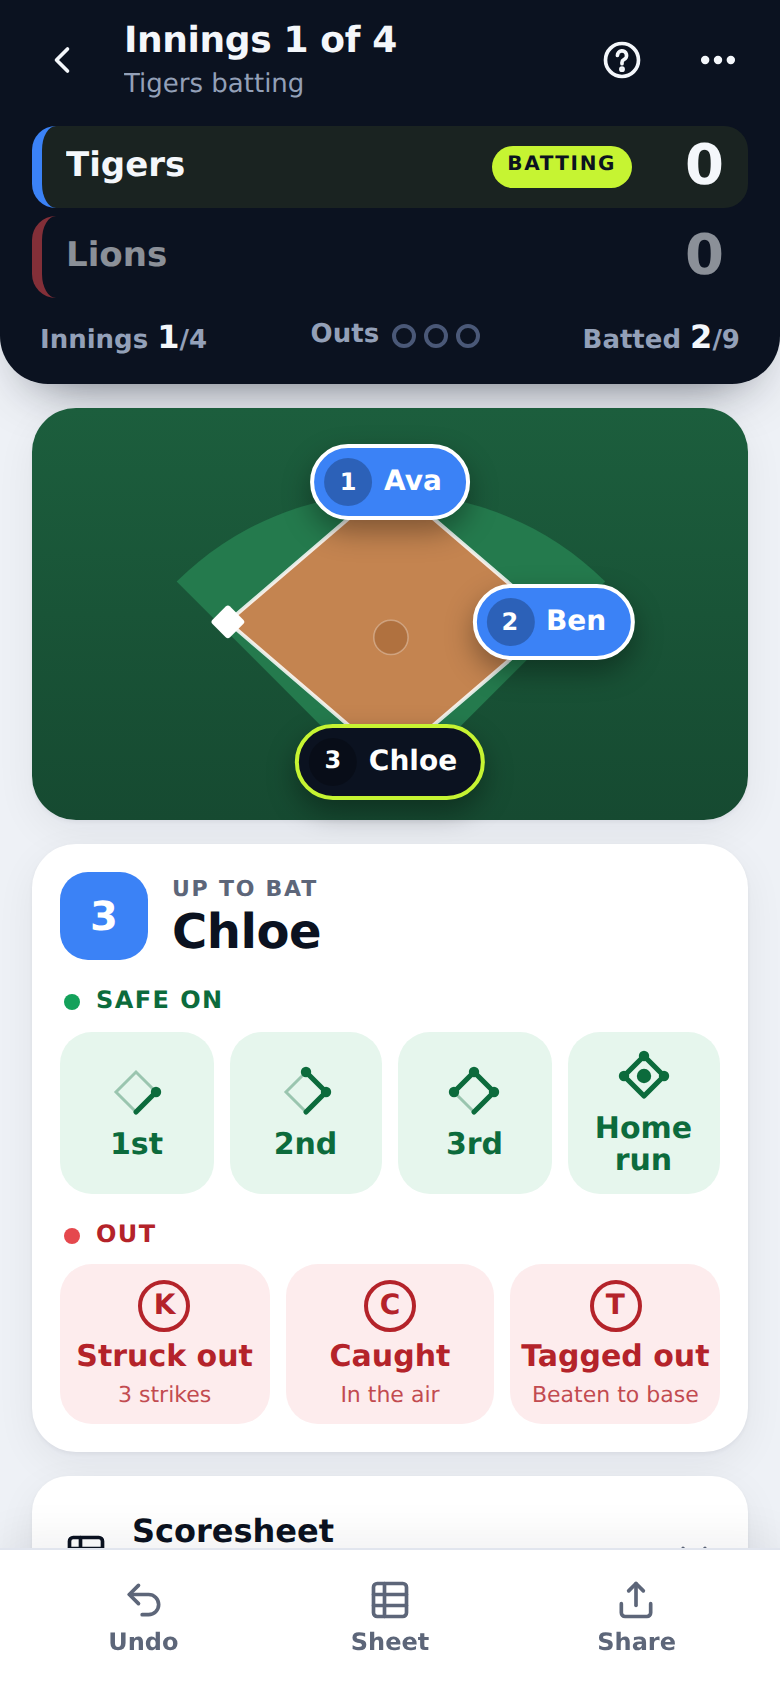
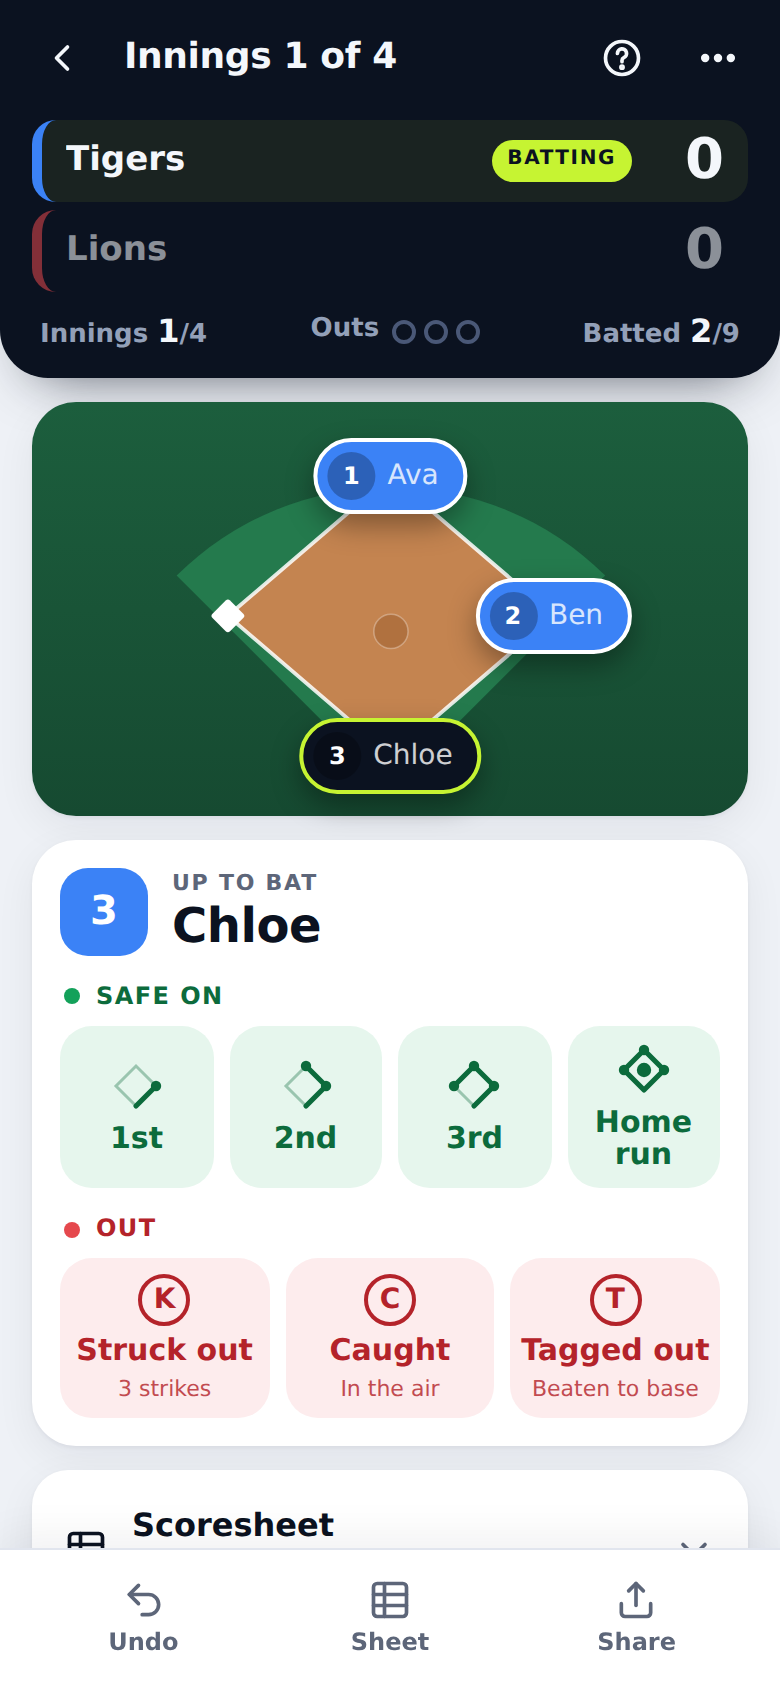
Fit scoring screen on small phones; draw next-batter line like the paper sheet
- Short screens (<=760px tall): teams side by side, smaller diamond,
  number-only runner chips, compact play buttons. All plays now fit
  without scrolling from 320x568 up
- Drop the repeated batting subtitle from the scoring top bar
- Next-batter marker: diagonal across the next batter's box joined to
  a horizontal line along that row in the next innings column

Claude-Session: https://claude.ai/code/session_01E99a7UZbF6EMRnxmZx3Hv6

diff --git a/css/style.css b/css/style.css
@@ -335,6 +335,7 @@ main.score { padding-top: 12px; }
   transition: transform .15s;
 }
 .chip.num-only { padding-right: 5px; }
+.chip em { font-style: normal; }
 .chip span { width: 24px; height: 24px; border-radius: 50%; display: grid; place-items: center; background: rgba(0, 0, 0, .25); font-size: 12px; }
 .chip.sel { transform: translate(-50%, -50%) scale(1.12); box-shadow: 0 0 0 4px var(--accent), 0 8px 18px rgba(0, 0, 0, .4); }
 .chip.pop { animation: pop .35s ease; }
@@ -500,4 +501,51 @@ main.score { padding-top: 12px; }
 @keyframes pulse { 50% { opacity: .55; } }
 @keyframes fade { from { opacity: 0; } }
 @keyframes slide { from { transform: translateY(100%); } }
+/* ---------- short screens (small phones) ---------- */
+@media (max-height: 760px) {
+  .top { padding-top: calc(env(safe-area-inset-top) + 4px); padding-bottom: 4px; }
+  .scoreboard { padding: 0 12px 8px; border-radius: 0 0 20px 20px; }
+  .sb-teams { grid-template-columns: 1fr 1fr; gap: 6px; }
+  .sb-team { padding: 4px 8px; gap: 6px; }
+  .sb-team:nth-child(2) { flex-direction: row-reverse; border-left: 0; border-right: 5px solid var(--team); text-align: right; }
+  .sb-team small { display: none; }
+  .sb-team.batting { box-shadow: inset 0 -3px 0 var(--accent); }
+  .sb-name { font-size: 14px; }
+  .sb-runs { font-size: 24px; min-width: 0; }
+  .sb-strip { margin-top: 5px; font-size: 12px; }
+  .sb-strip b { font-size: 14px; }
+  main.score { padding-top: 8px; }
+  .field-card { padding: 4px 6px; border-radius: 18px; margin-bottom: 8px; }
+  .field { max-width: calc(21vh * 1.2); }
+  /* Number-only runner chips so they never cover the bases. */
+  .chip, .chip.num-only { padding: 2px; }
+  .chip em { display: none; }
+  .chip span { width: 26px; height: 26px; font-size: 13px; background: none; }
+  .panel { padding: 10px; border-radius: 18px; margin-bottom: 8px; }
+  .batter-row { gap: 10px; margin-bottom: 6px; }
+  .num-badge { width: 34px; height: 34px; border-radius: 11px; font-size: 16px; }
+  .batter-row h2 { font-size: 19px; }
+  .batter-row small { font-size: 10px; }
+  .coach { padding: 4px 2px 4px 8px; font-size: 12px; }
+  .coach > svg { width: 15px; height: 15px; }
+  .coach .icon-btn { width: 26px; height: 26px; }
+  .group { margin: 7px 2px 4px; font-size: 11px; }
+  .plays { gap: 6px; }
+  .play { min-height: 50px; padding: 5px 2px; gap: 2px; border-radius: 13px; }
+  .play b { font-size: 14px; }
+  .play small { font-size: 10px; }
+  .play .glyph { width: 22px; height: 22px; font-size: 12px; }
+  .mini { width: 22px; height: 22px; }
+  .panel-head h2 { font-size: 19px; margin-bottom: 8px; }
+  .btn.big { min-height: 50px; }
+  .bottom-bar { padding-top: 3px; padding-bottom: calc(env(safe-area-inset-bottom) + 3px); }
+  .bottom-bar button { padding: 5px 4px; }
+}
+@media (max-height: 600px) {
+  .plays.hits .play b { font-size: 13px; }
+  .play small { display: none; }
+  .play { min-height: 44px; }
+  .field { max-width: calc(16vh * 1.2); }
+}
+
 @media (prefers-reduced-motion: reduce) { *, *::before, *::after { animation: none !important; transition: none !important; } }

diff --git a/js/app.js b/js/app.js
@@ -594,11 +594,11 @@ function diamond(bt, ph) {
     const p = state.runners[b];
     if (p == null) continue;
     chips.push(`<button class="chip ${game.teams[bt].players[p] ? '' : 'num-only'} ${selected === p ? 'sel' : ''} ${p === moved ? 'pop' : ''}" style="left:${POS[b][0]}%;top:${POS[b][1]}%;--team:${color}"
-      data-action="pick" data-p="${p}" ${runOk ? '' : 'disabled'}><span>${p + 1}</span>${esc(game.teams[bt].players[p] ? shortName(bt, p) : '')}</button>`);
+      data-action="pick" data-p="${p}" ${runOk ? '' : 'disabled'}><span>${p + 1}</span>${game.teams[bt].players[p] ? `<em>${esc(shortName(bt, p))}</em>` : ''}</button>`);
   }
   if (ph === 'bat') {
     const p = state.teams[bt].next;
-    chips.push(`<div class="chip batter ${game.teams[bt].players[p] ? '' : 'num-only'}" style="left:${POS[0][0]}%;top:${POS[0][1]}%;--team:${color}"><span>${p + 1}</span>${esc(game.teams[bt].players[p] ? shortName(bt, p) : '')}</div>`);
+    chips.push(`<div class="chip batter ${game.teams[bt].players[p] ? '' : 'num-only'}" style="left:${POS[0][0]}%;top:${POS[0][1]}%;--team:${color}"><span>${p + 1}</span>${game.teams[bt].players[p] ? `<em>${esc(shortName(bt, p))}</em>` : ''}</div>`);
   }
   const base = (b, x, y) => `<g class="base ${targets.has(b) ? 'target' : ''}" ${targets.has(b) ? `data-action="moveTo" data-to="${b || 4}"` : ''}>
       <circle cx="${x}" cy="${y}" r="26" class="hit"/>
@@ -702,10 +702,9 @@ function renderScore() {
   const ph = phase();
   if (!gridPinned) gridTeam = state.over ? 0 : bt;
   if (selected != null && !state.runners.includes(selected)) selected = null;
-  const sub = state.over ? 'Final' : `${esc(game.teams[bt].name)} batting`;
 
   app.innerHTML = `
-    ${topBar({ back: 'home', title: state.over ? 'Game over' : `Innings ${currentInning(state) + 1} of ${game.innings}`, sub,
+    ${topBar({ back: 'home', title: state.over ? 'Game over' : `Innings ${currentInning(state) + 1} of ${game.innings}`,
       right: `${helpBtn}<button class="icon-btn" data-action="menu" aria-label="More">${ICON.more}</button>` })}
     ${hero(bt)}
     <main class="score">

diff --git a/js/draw.js b/js/draw.js
@@ -174,23 +174,31 @@ export function drawGrid(ctx, x, y, game, state, team, hi) {
     }
   }
 
-  // Lines marking who bats first in the next innings.
+  // Lines marking who bats first in the next innings, as on the paper
+  // sheet: a diagonal across the next batter's unused box in the finished
+  // innings, joined to a horizontal line along the top of that batter's
+  // row in the next innings column (or past the grid after the last one).
   ctx.strokeStyle = INK;
   ctx.lineWidth = 3;
+  ctx.lineCap = 'round';
+  ctx.lineJoin = 'round';
   for (const b of TS.breaks) {
     if (b.inning >= game.innings) continue;
     const bx = gx + b.inning * S;
     const by = rowsTop + b.player * S;
+    const end = b.inning + 1 < game.innings ? bx + 2 * S : bx + S + 12;
     ctx.beginPath();
     if (!TS.cells[b.inning + ':' + b.player]) {
       ctx.moveTo(bx, by + S);
-      ctx.lineTo(bx + S + 12, by - 4);
+      ctx.lineTo(bx + S, by);
     } else {
-      ctx.moveTo(bx, by);
-      ctx.lineTo(bx + S + 12, by);
+      // Box already used (whole lineup batted): no room for the diagonal.
+      ctx.moveTo(bx + S, by);
     }
+    ctx.lineTo(end, by);
     ctx.stroke();
   }
+  ctx.lineCap = 'butt';
 
   // Totals: innings runs top-left, running total bottom-right.
   const ty = rowsTop + n * S;

diff --git a/sw.js b/sw.js
@@ -1,5 +1,5 @@
 // Offline support: cache the app shell, serve cache first, refresh in background.
-const CACHE = 'tball-v4';
+const CACHE = 'tball-v5';
 const SHELL = [
   './', 'index.html', 'css/style.css', 'js/app.js', 'js/model.js', 'js/draw.js', 'js/ui.js', 'js/storage.js',
   'manifest.webmanifest', 'icons/icon.svg', 'icons/icon-180.png', 'icons/icon-192.png', 'icons/icon-512.png', 'icons/icon-maskable-512.png',
